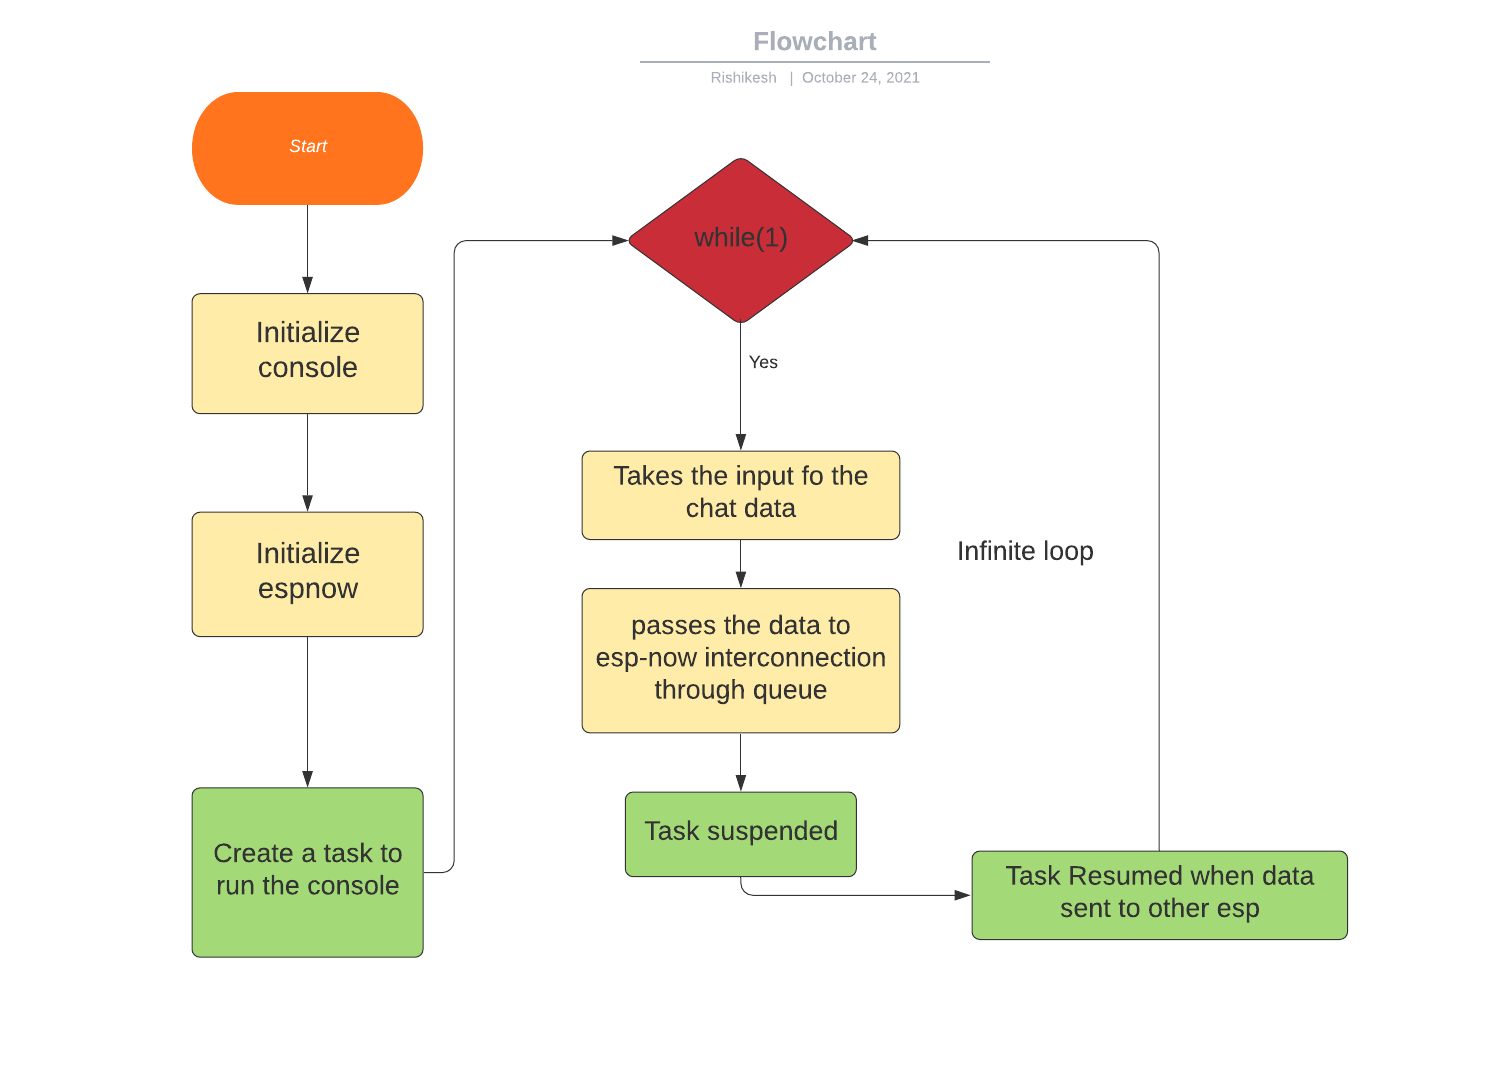
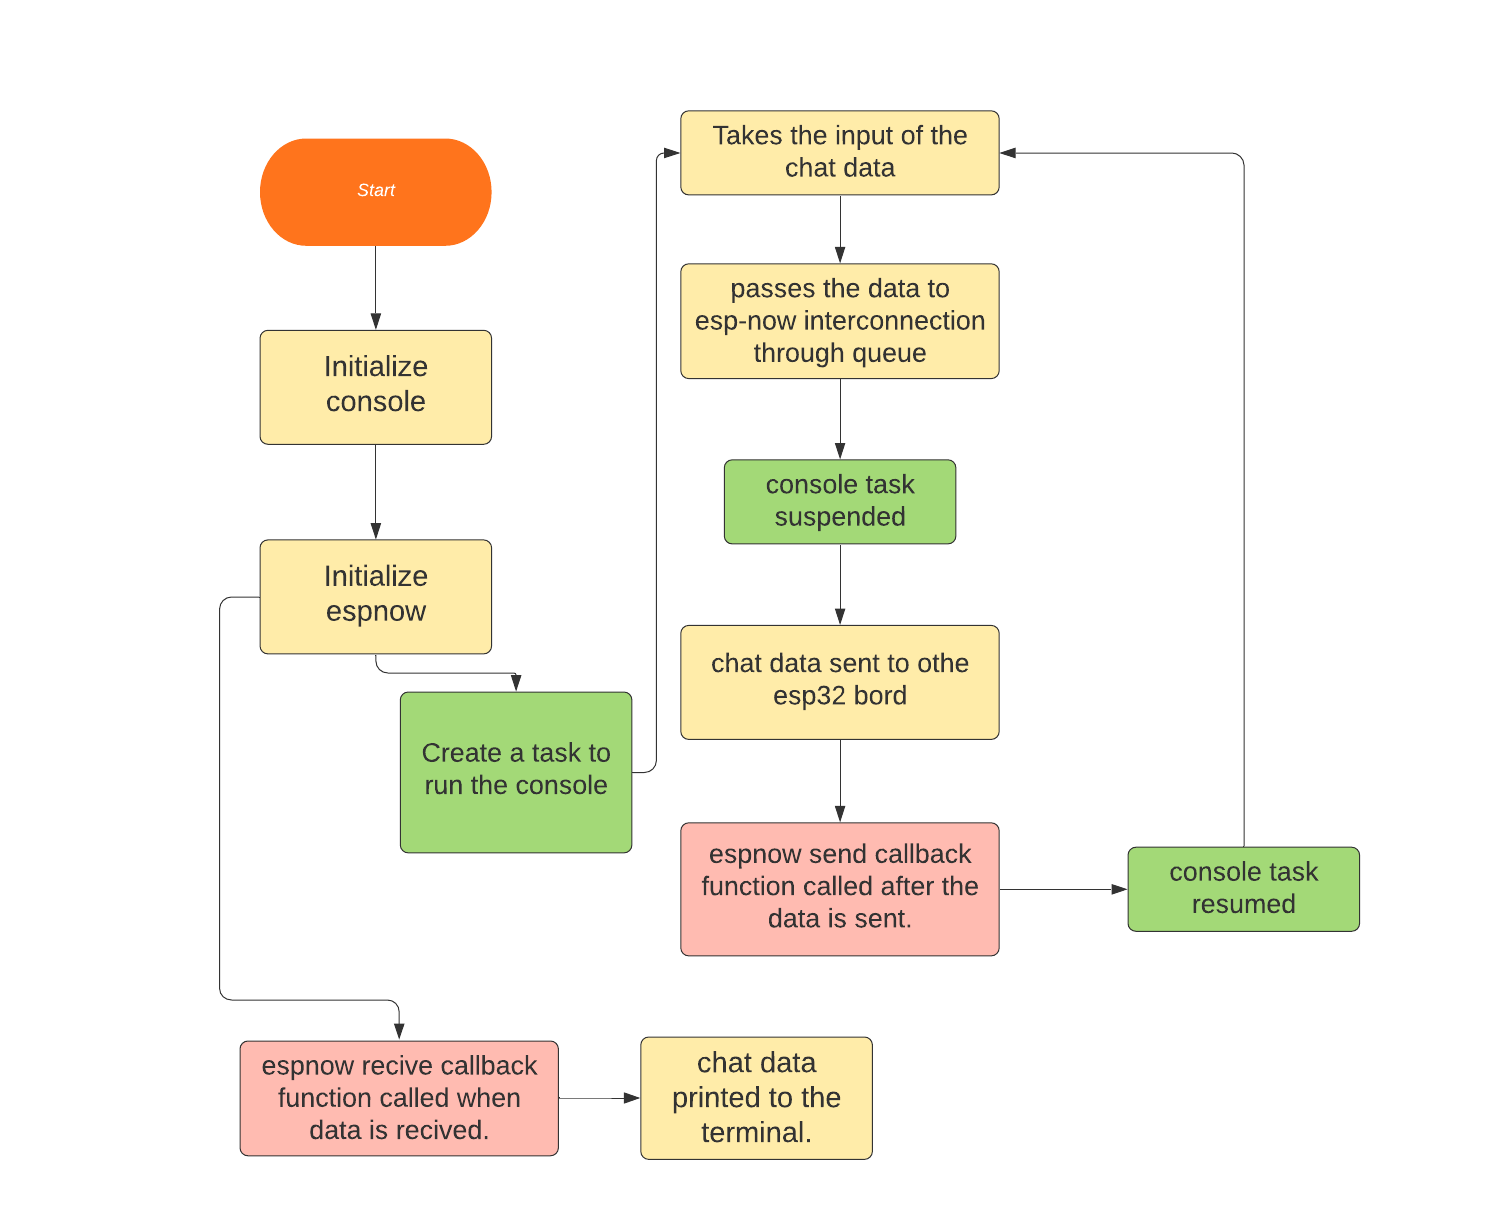
updated readme1

diff --git a/README.md b/README.md
@@ -98,8 +98,15 @@ idf.py build
 idf.py -p (PORT) flash monitor
 
 ```
+<!-- CODE  -->
+## Code
+* The input of chat is taken from the user through console.
+* The chat data is sent to espnow and console task suspended,chat data is sent to other esp32 board.
+* Console task is resumed to take the next chat.
+* When the chat data is recived by the other esp32 board it is printed to the console.
 
 
+![**flowchart**](https://github.com/RISHI27-dot/ESP32-chat-communication-over-wifi/blob/testing1/assets/menuconfig.png)
 <!-- RESULTS AND DEMO -->
 ## Results and Demo
  
